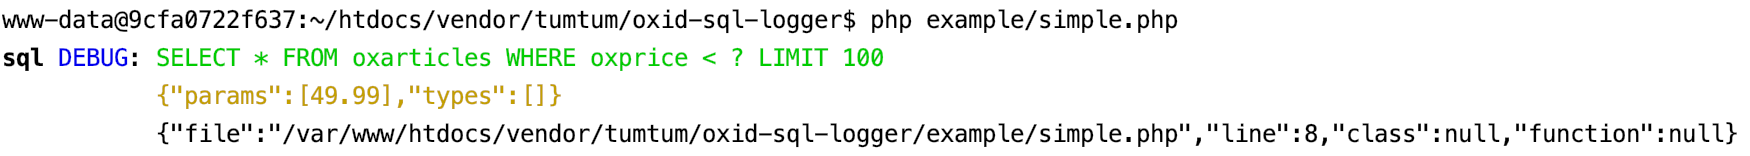
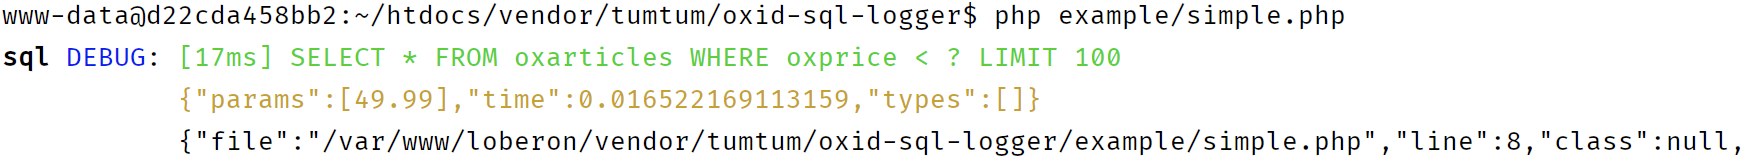
Updated documentation

diff --git a/CHANGELOG.md b/CHANGELOG.md
@@ -6,6 +6,11 @@ and this project adheres to [Semantic Versioning](https://semver.org/spec/v2.0.0
 
 ## [Unreleased]
 
+### Added
+
+- Measures the sql execution time
+- Testing framework [phpspec](https://www.phpspec.net/en/stable/manual/introduction.html)
+
 ## [1.0.0] - 2019-07-21
 
 ### Added
